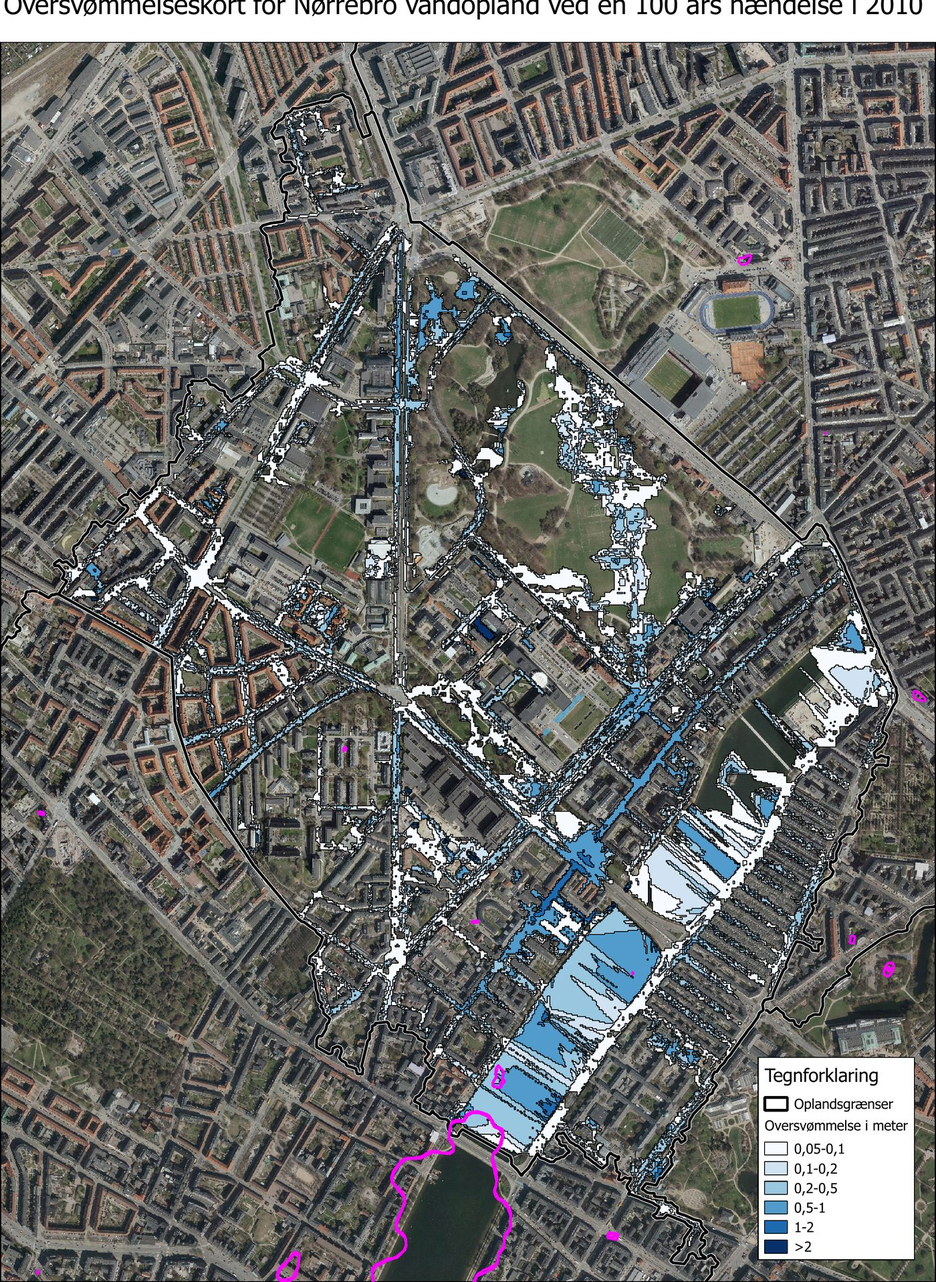
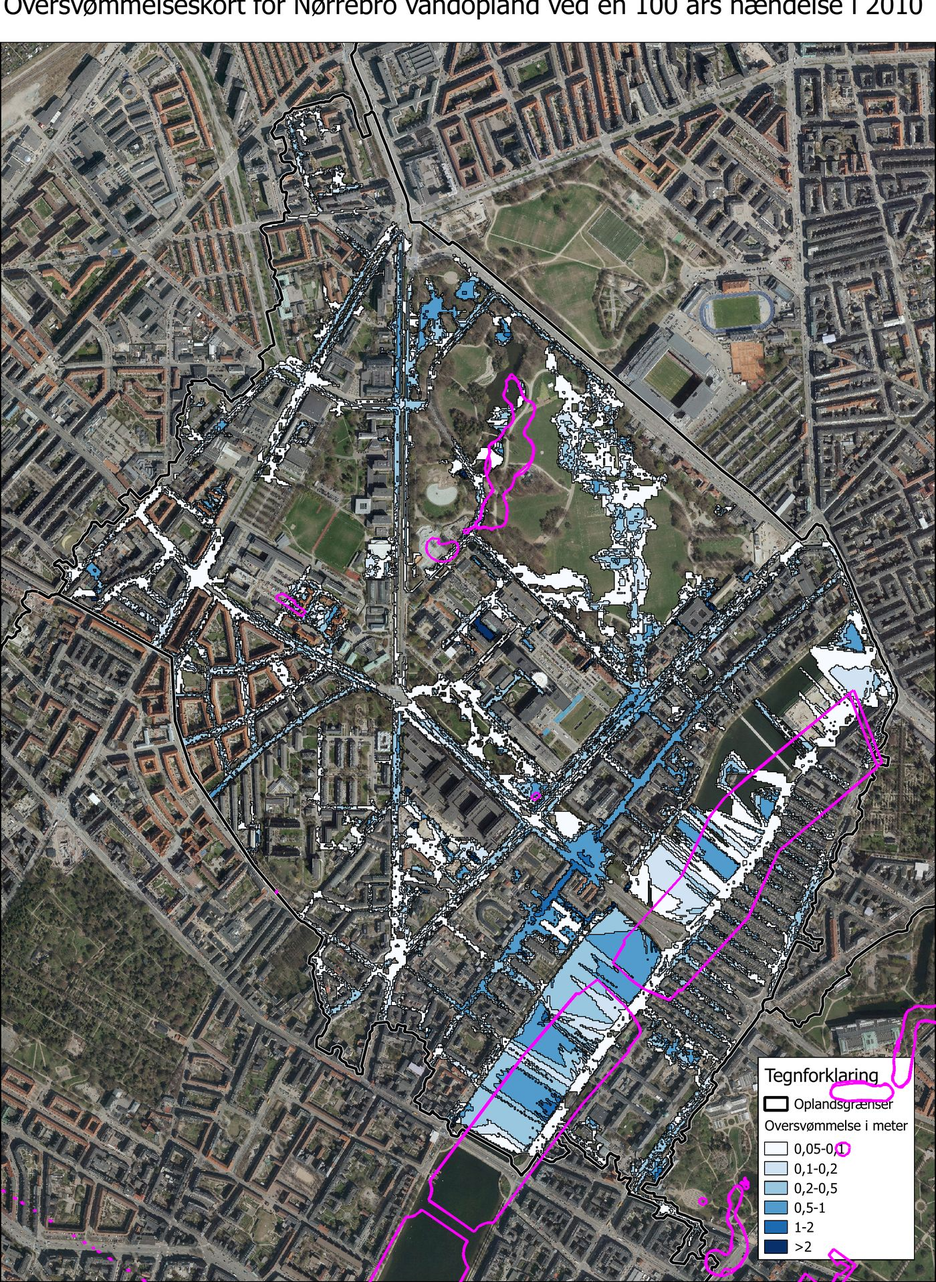
Link the triage and audit into the nav, commit loose files
hypodrafts/ held 22 files reachable only from the repository, not from
the site. TRIAGE.md and AUDIT.md are the two a reader would want and are
now in the navigation; the individual drafts stay reachable from them.

Also commits Z8.md, which was written while the batch ran, and the
regenerated Noerrebro check overlay.

Claude-Session: https://claude.ai/code/session_012PTLtaFp1E3ssUTvFFzzj3

diff --git a/index.html b/index.html
@@ -326,6 +326,8 @@ const GROUPS = [
     ["DATA_QUEUE.md",   "The fetch queue"],
     ["OBSERVING.md",    "What Denmark measures, and where"],
     ["PLAN.md",         "The order of work"],
+    ["hypodrafts/TRIAGE.md", "All 166 hypotheses, triaged"],
+    ["hypodrafts/AUDIT.md",  "The drafts, audited"],
     ["IF_YOU_HAVE_THE_DATA.md", "If you have data access we don't"],
     ["AGENT_BRIEF.md",  "Standing brief"],
     ["KNOWN_AND_UNKNOWN.md", "What is known, by whom"],

diff --git a/docs/hypodrafts/Z8.md b/docs/hypodrafts/Z8.md
@@ -1,0 +1,145 @@
+# Z8 — The attenuation budget is never partitioned
+
+**Testable now**, on a subset, with one term left by subtraction — said, not hidden.
+
+## Where Z8 overstates
+
+*"Denmark measures broadband Kd, which cannot be partitioned even in principle"* is half
+right. From the governing method document, extracted here rather than summarised —
+**TA M06 *Lyssvækkelse* v3, Marint Fagdatacenter, in force 04.06.2015** (link below):
+
+- One band, mandated: *"skal der måles fotosyntetisk aktivt lys i intervallet 400-700 nm
+  også kaldet PAR."*
+- §2.5.1 **names the spectral mechanism this project rediscovered from the data** and
+  prescribes deletion as the cure: *"Lysets spektrale sammensætning … ændrer sig med
+  vanddybden … en ikke-lineær hældning. I disse tilfælde kan det være nødvendigt at
+  udelade lysmålinger fra den nederste del af vandsøjlen."* It also drops the profile's
+  bottom when resuspension is suspected — deleting the mineral signal a partition wants,
+  and creating the start-depth freedom `light.py` measured (6.31 m against 8.18 m).
+- §2.5.2 collapses composition into a constant: the Secchi→Kd factor runs 1.5–3.6 in
+  Danish waters, "så lav som 0,6" where scattering dominates and "op til 4,1" where
+  dissolved matter does — then is set to **2,3**. That range **is** the partition.
+
+Absent **by protocol**, not by physics — and the archive carries composition channels the
+protocol does not use.
+
+## The falsifiable consequence
+
+Per **cast** — never a water body, which is why `val_kd.bin` and `val_secchi.bin`,
+indexed by DKCOAST, are unusable here.
+
+1. **Ordering.** Ranking casts by the chlorophyll proxy does not reproduce the ranking
+   by Kd, and casts above a Kd threshold fall into at least two composition types
+   (high-FDOM/low-turbidity, high-turbidity/low-FDOM) rather than one.
+2. **The constant.** `Kd · z_Secchi` on the same station-day varies with FDOM and
+   Turbiditet after station and month are removed. TA M06's own 0.6–4.1 range predicts
+   this; the fixed 2.3 denies it.
+3. **The artefact.** The apparent-Kd decline with depth (LIGHT.md: bottom/top ratio 0.879
+   for surface starts, rising to 0.987 below 5 m) **weakens as FDOM rises**, because CDOM
+   absorption at short wavelengths narrows the spread of K(λ) across the PAR band that
+   produces the decline. Sign predicted before looking; the magnitude needs an assumed
+   K(λ) and is not part of the test.
+
+Each can fail: (1) would leave Z8's attribution complaint empty here, (2) would make the
+collapsed constant harmless, (3) would refute LIGHT.md's spectral reading.
+
+## Data, with counts computed here
+
+**`lys.csv.gz`** — 2,370,340 rows; **62,848 distinct station|date casts** with a fitted
+Kd, 62,845 with a fit coefficient, **62,136 with `ZMin`, the depth the regression started
+from** — 40.6% shallower than 0.6 m, only 1,290 deeper than 5.1 m. 249 rows are
+field-shifted and must be dropped by field count, not silently. 566 stations, **all also
+CTD stations** (of 1,527). *Class 7* — Kd is a regression the operator fitted over a
+window the operator chose; *class 3* — a profile collapsed to one slope. Guard against
+circularity: require the fit coefficient, so Secchi-derived Kd cannot enter.
+
+**`ctd.csv.gz`** — all 18 `Parameter` values counted (17 named, one blank; accented
+names truncate in my scan). The four this needs: **Lysdæmpning 5,217,330** · Fluorescens
+6,783,570 · **Turbiditet 1,076,915** · **FDOM 890,921**, with `Photometer m…` 576,179 and
+`Photometer reference` 531,071 beside them. The rest are channels this project already
+uses, plus five under 240,000 rows.
+
+**The two composition channels do not cover the same record, and that decides the shape of
+the test.** Turbiditet: 1994-01-10 → 2026-09-07, 252 stations, **12,700 station-days**, FTU
+throughout. FDOM: **2021-04-19** → 2026-09-07, 211 stations, **10,550 station-days**, ppb
+throughout. The in-situ CDOM term exists for five years; before 2021 only satellite
+`adg443` carries it.
+
+**`Lysdæmpning` is the finding**: the underwater and surface readings TA M06 requires
+survive **per depth**, so Kd can be refitted over a *stated* window instead of the
+operator's — on the same cast as the three proxies: composition and light in one
+frame. Check its unit first: attenuation, or transmissometer beam-c, which is a
+different quantity.
+
+Error classes on the proxies: *class 1* — ppb and FTU are sensor units, not absorption
+coefficients; *class 4* — FDOM is fluorescence, not a(λ)CDOM, and turbidity is scattering,
+not non-algal absorption; *class 5* — `SondeNr` is 999 on 83.5% of rows, so the per-cast
+calibration that would convert units is unrecoverable. *Class 6* over all of it: no
+wavelength, no clock time.
+
+## Procedure
+
+1. Cast table from `lys.csv.gz` via `formats.num()`: station, date, Kd, fit, `ZMin`,
+   `ZMax`; keep casts with a fit coefficient.
+2. Stream `ctd.csv.gz` once, cast-contiguous (flush on key change, count reopened keys),
+   emitting per station|date the depth-median Fluorescens, FDOM and Turbiditet **over
+   `ZMin…ZMax`** — the layer the Kd was fitted over, not the whole cast.
+3. Inner-join on station|date; report how the joined subset differs from all lys casts in
+   Kd, station and month — that selection is the first result.
+4. Apportion Kd's variance among the proxies within station × month, then fit (1), (2)
+   against `maaledybde.csv.gz` Secchi on the same station-day, and (3) — each against the
+   permutation null below, reported as a distribution rather than a p-value. Repeat with
+   satellite `adg443`/`aph443`/`bbp443`, the only route to pre-2021 CDOM.
+
+## The null, under the constraint imposed
+
+Not a regression's nominal F-null. Casts are clustered by station, seasonal and
+autocorrelated, and the composition channels share a station's mean level with Kd.
+**Permute the composition triple across casts within station × calendar month**,
+preserving each channel's marginals and the station/season structure, and rebuild the
+apportionment 1,000 times; the observed unique variance must beat that distribution. Same
+permutation for (2) and (3). Nothing quoted — the number is whatever the permutation
+returns, reported even when it exceeds the observed statistic. Second constraint, already
+shown here: `matchup.py` found the satellite-matched subset is **not** a random sample
+(matched median Kd 0.270 against 0.330 in the same months), so the satellite arm's null is
+built on that subset.
+
+## The residual, named
+
+Kd = K_water + K_phyto + K_CDOM + K_NAP. On the in-situ arm **none of the four is in
+absorption units**, so this yields a variance apportionment, not a budget, and the residual
+holds the start-depth artefact, the operator's window choice and time of day. The satellite
+arm splits three ways at best, `adg443` conflating CDOM with detritus. A residual is
+testable only by measuring a part P out of it and checking it shrinks by exactly P — which
+needs absorption in units: an AC-S or spectroradiometer profile beside the PAR cast, done
+twice in Danish waters (Gonçalves-Araujo & Markager 2020, around Fyn, 2017 and 2019) and
+never in monitoring. Until then that shrinkage test is joint with a spectral model.
+
+## What it licenses
+
+**Would:** a statement about the *record* — whether Kd's cast-to-cast variance at named
+stations in named months is carried mainly by the chlorophyll channel, against a
+permutation null, and whether 2.3 is composition-free. **Would not:** a physical budget, a
+causal attribution, any per-water-body or national number, or any trend — matchup.py
+already got both signs.
+
+## Job 1 — sources, and whether each is a separate production path
+
+Satellite IOPs are all *class 7*: a QAA or neural-net retrieval.
+
+| source | measures | resolution · coverage · licence | separate path |
+|---|---|---|---|
+| `ctd.csv.gz` Lysdæmpning · Photometer · FDOM · Turbiditet · Fluorescens (**held**) | attenuation + 3 composition proxies, per depth | per cast · counts above · ODA open | **no** — same ship and frame as `lys` |
+| [BAL_BGC_L3_NRT_009_131](https://data.marine.copernicus.eu/product/OCEANCOLOUR_BAL_BGC_L3_NRT_009_131/description) | **ADG443, APH443, BBP443**, KD490, RRS | 300 m daily · OLCI, NRT only · free | **yes** |
+| [BAL_BGC_HR_L4_NRT_009_208](https://data.marine.copernicus.eu/product/OCEANCOLOUR_BAL_BGC_HR_L4_NRT_009_208/description) | TUR, SPM, **BBP443**, CHL — **no ADG** | **100 m**, 20 km coastal band · S2/MSI, 2020-01-08 → · free | yes; CDOM is its residual |
+| [OC-CCI v6.0 IOP](https://catalogue.ceda.ac.uk/uuid/024292dcda5d42ceb326850f89f8b40d/) · [ERDDAP](https://comet.nefsc.noaa.gov/erddap/info/occci_V6_monthly_4km/index.html) | adg/aph/atot/bbp at 412–665 nm, kd_490, 14 water classes | 4 km, monthly & 8-day · 1997-09 → · ESA CCI open | **yes**; box-subsettable, small |
+| [Sentinel-3 OLCI L2 WFR](https://sentinel.esa.int/web/sentinel/user-guides/sentinel-3-olci/product-types/level-2-water) | ADG443_NN, TSM_NN, CHL_NN, KD490_M07 | 300 m · 2016 → · free | **yes** |
+| [MODIS-A L3 IOP GIOP](https://www.earthdata.nasa.gov/data/catalog/ob-cloud-modisa-l3m-iop-2022.0) | adg/aph/bbp_443_giop | 4 km · 2002 → · Earthdata login | **yes** — GIOP, not QAA |
+| [TA M06 v3](https://ecos.au.dk/fileadmin/ecos/Fagdatacentre/Marin/TA_M06_Lyssvaekkelse_ver3.pdf) | the method itself | in force 2015 · AU/DCE public | primary document |
+
+The Baltic multiyear product already fetched
+([009_133](https://data.marine.copernicus.eu/product/OCEANCOLOUR_BAL_BGC_L3_MY_009_133/description),
+1 km, 1997 →) lists **no IOP**: only the 4 km global sets reach back to 1997. **EMODnet
+Chemistry** and **ICES** were searched and **no CDOM-absorption or spectral-attenuation
+product for Danish waters was established** — not "absent", *not found by the search
+performed*.
